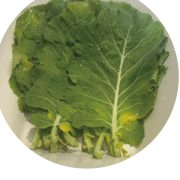
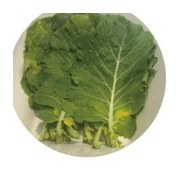
0007 셀프바 이미지 8종 교체·흰 테두리 여백 통일
- 알배추/상추/로메인/고구마/콩나물 5종을 새 카탈로그 사진으로 교체(180x180 jpg로 통일)
- 케일/깻잎/연근 3종은 기존 사진에 흰 여백이 없어 원형 클리핑 시 테두리 링이
  안 보이던 것을 사방 13px 균일 여백으로 맞춰 나머지 5종과 통일
- asset-optimizer/screenshot-verifier 에이전트 메모리 갱신

diff --git a/0007/.claude/agent-memory/screenshot-verifier/gopumgyeok-selfbar-ring-pixel-scan-technique.md b/0007/.claude/agent-memory/screenshot-verifier/gopumgyeok-selfbar-ring-pixel-scan-technique.md
@@ -1,0 +1,31 @@
+---
+name: gopumgyeok-selfbar-ring-pixel-scan-technique
+description: 셀프바 원형 이미지(sb_*.jpg)의 흰 여백 두께 일관성은 육안보다 PIL 스캔라인 픽셀 분석이 더 정확하다
+metadata:
+  type: project
+---
+
+02 메뉴 섹션 `#selfbarGrid` 의 원형 카드(`.sb-item .circle`)는 CSS `border` 가 아니라 **각 jpg
+이미지 자체에 구운 흰 여백**이 `border-radius:50%` 클리핑을 통해 링처럼 보이는 구조다(CSS 링이
+아님). 그래서 "링이 얇아 보인다"는 피드백은 CSS 문제가 아니라 사진마다 원본 촬영 여백이 달라서
+생긴다.
+
+육안 비교(스크린샷 리사이즈 크롭)만으로는 카드마다 배경(하얀 사기그릇 vs 갈색 나무 접시 vs
+회색 톤)이 섞여 있어 "링"과 "그릇 안쪽 밝은 부분"이 눈으로 잘 구별되지 않는다. 실측하려면
+풀페이지 스크린샷을 찍은 뒤 PIL 로 각 원의 가로 중심선(scanline)을 따라 픽셀을 순회하며, 검정
+배경(RGB 전부 <25) → 거의 순백(RGB 전부 >250) → 그 외 색(그릇/식재료)로 전이되는 지점을 찾아
+백색 구간 길이(px)를 측정하면 카드 간 링 두께를 숫자로 비교할 수 있다. 순백 임계값을 235~250 정도로
+엄격하게 잡아야 그릇 안쪽의 오프화이트(예: 깻잎 카드의 흰 사기그릇, 220~230대)와 진짜 바깥
+여백을 구별할 수 있다 — 느슨한 임계값(>200)을 쓰면 그릇 내부까지 링으로 오판한다.
+
+**Why:** 2026-09-16, kale/kkaennip/yeongeun 3장을 180x180 캔버스에 154x154로 축소 후 중앙
+배치(사방 13px 흰 여백)해 다른 5장과 통일시켰는지 검증할 때, 이 스캔 방식으로 8개 카드 모두
+순백 구간이 약 7~8px(1440px 폭 풀페이지 렌더 기준, 원 지름 약 120px일 때)로 일치함을 확인했다.
+kkaennip 카드는 흰 사기그릇이 배경이라 순백 구간이 두 단계(바깥 링 7px + 안쪽 그릇 밝기)로
+이어져 육안 크롭만으로는 훨씬 두꺼워 보였지만, 픽셀 값 분석으로 실제 바깥 링은 동일하다고 확인됐다.
+
+**How to apply:** 셀프바(또는 유사한 원형 클리핑 이미지) 카드 여러 장의 여백/링 두께 일관성을
+검증할 때, 먼저 육안 크롭으로 대략 훑고 의심되는 카드가 있으면 이 스캔라인 픽셀 측정으로
+재확인한다. 큰 프로그래매틱 스크롤은 [[headless-large-scroll-screenshot-black-frame]] 때문에
+피하고, 대신 `.hero{position:relative;min-height:auto}` 오버라이드만 주입한 디버그 사본을
+`--window-size` 높이를 넉넉히(예: 4700px) 잡아 풀페이지로 찍은 뒤 필요한 섹션만 크롭해서 쓴다.

diff --git a/0007/.claude/agent-memory/asset-optimizer/selfbar-thumbnail-convention.md b/0007/.claude/agent-memory/asset-optimizer/selfbar-thumbnail-convention.md
@@ -1,0 +1,27 @@
+---
+name: selfbar-thumbnail-convention
+description: 02 메뉴 셀프바 원형 썸네일(.sb-item .circle img) 20장의 표준 규격 — 새/교체 이미지가 이 규격을 벗어나면 즉시 리사이즈 대상
+metadata:
+  type: project
+---
+
+`assets/imgs/sb_*.{jpg,png}` (data/content.json `selfbar` 배열, `.selfbar-grid` → `.sb-item .circle`)
+는 실측 표시 크기가 데스크탑에서도 최대 지름 ~120px(`.wrap` 1120px - 32px*2 패딩, 8열 grid,
+gap 14px 기준 계산)에 불과한 아주 작은 원형 썸네일이다.
+
+**표준 규격(기존 15장 기준)**: 180×180px JPEG, 파일당 5~10KB. 알파 채널 없음(흰 배경으로
+플래튼된 원형 접시 사진).
+
+2026-09-16, 5장(`sb_albaechu`, `sb_goguma`, `sb_kongnamul`, `sb_romaine`, `sb_sangchu`)이
+새 카탈로그 사진으로 교체되면서 PNG 알파 포함 1254×1254 전후, 2~2.5MB 짜리로 들어온 적이
+있었다 — 표시 크기 대비 약 10배 픽셀, 약 300배 용량 낭비. `sips`로 180×180 리사이즈 +
+JPEG quality 50 재인코딩해 7.5~10KB로 맞추고([[local-tooling]] 참고), `data/content.json`의
+확장자도 `.png → .jpg`로 함께 갱신해 해결했다.
+
+**Why:** 이 그리드는 8열/4열 촘촘한 그리드라 표시 크기가 극단적으로 작다. 다른 컴포넌트
+(고기 카드, 매장 사진)와 달리 "레티나 2~3배"를 적용해도 300~400px면 충분하다 — 원본 그대로
+쓰면 절대 안 된다.
+**How to apply:** 셀프바 이미지가 교체/추가될 때마다 `sips -g pixelWidth -g pixelHeight`로
+확인해 180×180 근방·수 KB~수십 KB 대에서 크게 벗어나면 이 규격으로 리사이즈를 제안(또는 직접
+수행, 이번처럼 명시적으로 요청받았을 때만)한다. quality 50이 이 크기에서는 육안상 손실이
+거의 안 보였다(원형 접시 사진, 디테일이 커봐야 잎맥 정도).

diff --git a/0007/.claude/agent-memory/asset-optimizer/local-tooling.md b/0007/.claude/agent-memory/asset-optimizer/local-tooling.md
@@ -1,0 +1,21 @@
+---
+name: local-tooling
+description: 로컬 macOS 환경에서 실제로 쓸 수 있는 이미지 도구와 없는 도구 (asset-optimizer 작업 시작 전 확인용)
+metadata:
+  type: project
+---
+
+이 환경(`which` 확인 결과)에서:
+
+- `sips` (macOS 내장) — 있음. 리사이즈(`--resampleHeightWidth`), 포맷 변환(`-s format jpeg`),
+  JPEG 품질(`-s formatOptions <0-100>`), 픽셀/알파 조회(`-g pixelWidth -g pixelHeight -g hasAlpha`)
+  전부 이 하나로 처리 가능. PNG→JPEG 변환 시 알파 채널은 **흰색으로 자동 플래튼**된다(옵션 없음,
+  기본 동작) — 이 프로젝트 셀프바 원형 썸네일들이 흰 배경 위 원형 접시 사진이라 우연히도 잘 맞는다.
+- `cwebp` (`/opt/homebrew/bin/cwebp`) — 있음. webp로 바꿔야 할 때 사용 가능.
+- `pngquant`, `imagemagick`(`convert`/`magick`) — **없음**. PNG 팔레트 압축이 필요하면 설치를
+  제안만 하고 임의로 `brew install` 하지 않는다(사용자 지시).
+
+**Why:** 매번 `which` 로 재확인하는 대신 이 기록으로 어떤 도구가 가용한지 먼저 파악하고
+불필요한 설치 제안/탐색을 줄인다.
+**How to apply:** PNG 최적화만 필요하고 pngquant 가 없으면 "설치가 필요하다"고 보고하고
+직접 설치하지 않는다. 리사이즈+JPEG 재인코딩이면 `sips` 만으로 충분하다.

diff --git a/0007/.claude/agent-memory/screenshot-verifier/MEMORY.md b/0007/.claude/agent-memory/screenshot-verifier/MEMORY.md
@@ -8,3 +8,4 @@
 - [헤드리스로 클릭 인터랙션 검증하는 법](gopumgyeok-inquiry-fab-click-through-headless.md) — puppeteer 없이 _debug 사본에 setTimeout+.click() 주입, getBoundingClientRect/computedStyle을 화면에 찍어 확인
 - [큰 프로그래매틱 스크롤 후 스크린샷 블랙프레임](headless-large-scroll-screenshot-black-frame.md) — ~5500px 점프+--screenshot 조합이 검정 프레임을 냄, dump-dom은 안전. 클래스 직접 주입 우회법 포함
 - [포트 8765를 형제 프로젝트와 공유](gopumgyeok-shared-port-8765-with-sibling-project.md) — 0007-B 등 다른 서버가 먼저 bind하면 200이 와도 엉뚱한 프로젝트 HTML이 찍힘, curl로 콘텐츠 확인 필수
+- [셀프바 원형 이미지 링 두께 픽셀 스캔 검증법](gopumgyeok-selfbar-ring-pixel-scan-technique.md) — 흰 여백은 CSS 링이 아니라 jpg에 구운 것, PIL 스캔라인으로 순백 구간 px 측정해야 육안 오판 방지

diff --git a/0007/.claude/agent-memory/asset-optimizer/MEMORY.md b/0007/.claude/agent-memory/asset-optimizer/MEMORY.md
@@ -1,0 +1,2 @@
+- [로컬 도구 현황](local-tooling.md) — sips/cwebp 있음, pngquant/imagemagick 없음(임의 설치 금지)
+- [셀프바 썸네일 표준 규격](selfbar-thumbnail-convention.md) — 180×180 JPEG 5~10KB, 2026-09-16 5장 리사이즈 사례
